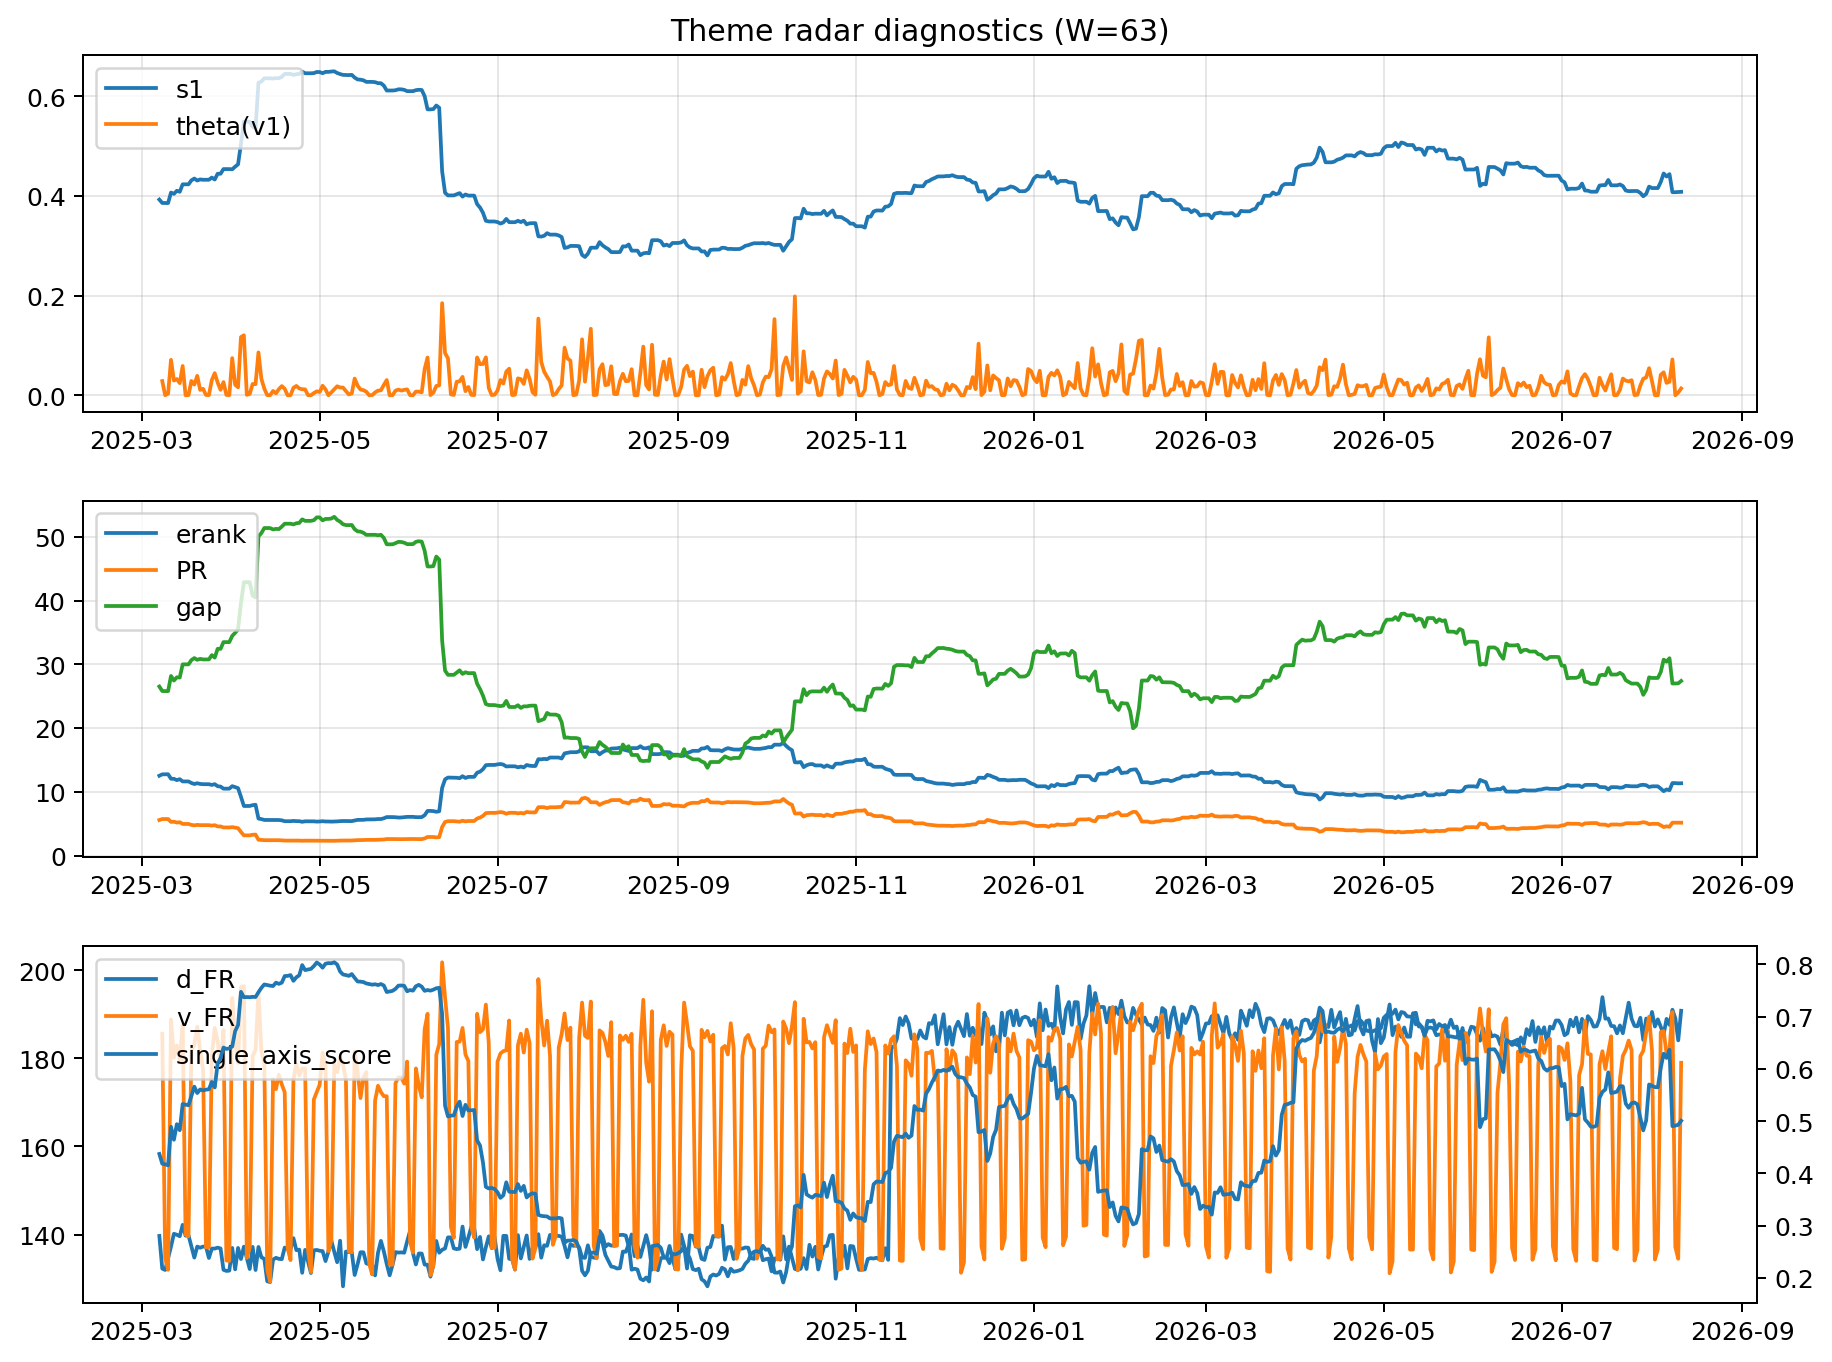
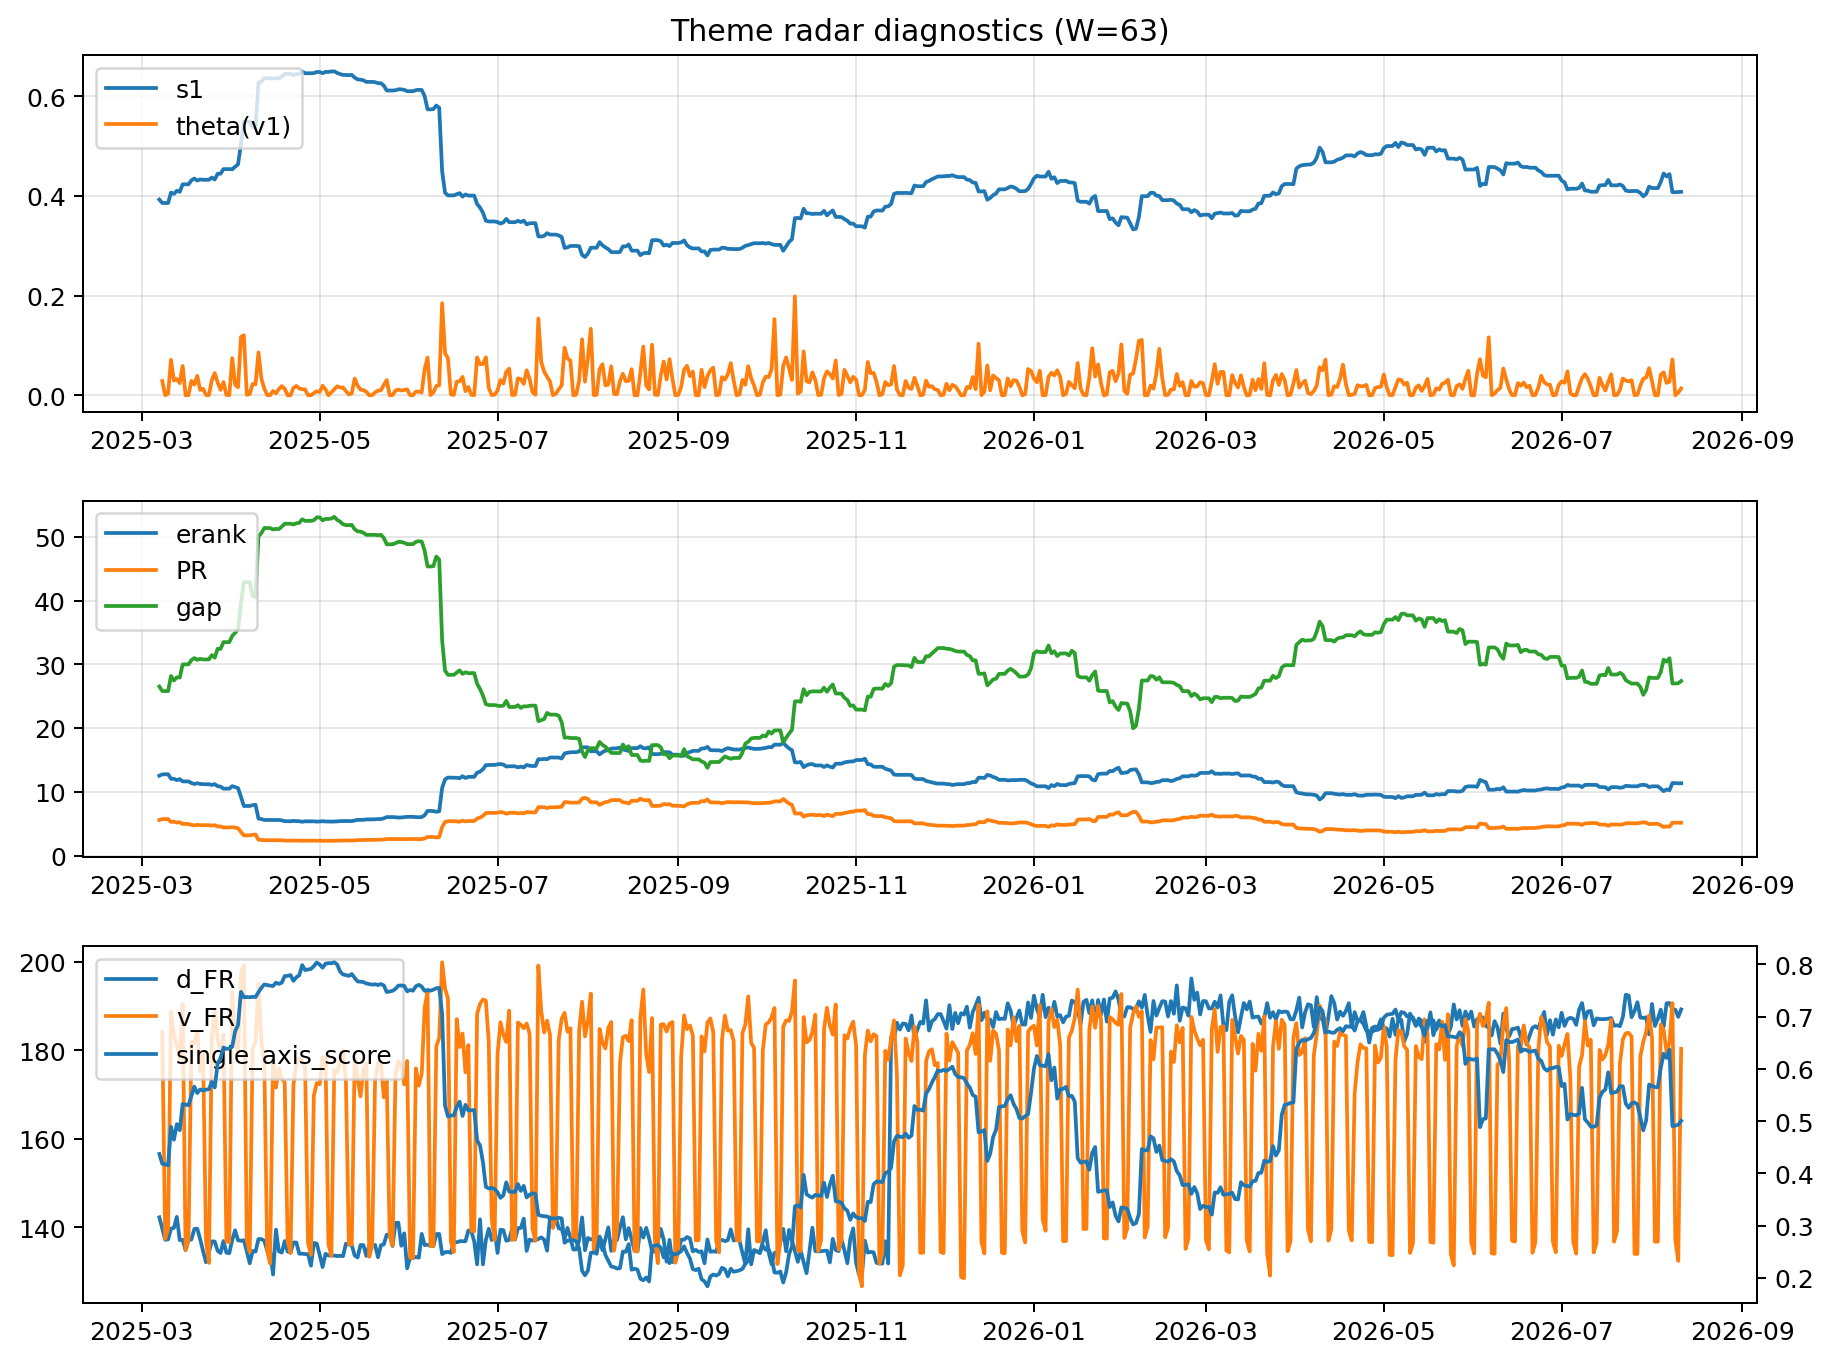
log: 2026-08-11 | sha256:c088ddeecf5f13db018c27ae1dc105e9d2df96f6c542eb1fc623159c758e589a

diff --git a/logs/2026-08-11.md b/logs/2026-08-11.md
@@ -3,43 +3,43 @@
 ![diagnostic W63](../assets/diagnostic/2026-08-11_W63.png)
 
 ## Leaders (v1) — W=63
-- **Nuclear_Uranium** (0.0883281911548717)
-- Semis (0.0719555853222208)
-- Quantum (0.0582146465356815)
+- **Nuclear_Uranium** (0.0883281906155394)
+- Semis (0.0719555869431848)
+- Quantum (0.058214644146876)
 
 ## Challengers — W=63
-**v2:** Rates (0.0848731996164535), Semis (0.0835760463040531), Software_Cloud (0.072843363715525)
-**v3:** Software_Cloud (0.0820968595578857), DataCenter_Infra (0.0752120545783254), Rates (0.0738538052696147)
+**v2:** Rates (0.0848727899270206), Semis (0.0835761002760775), Software_Cloud (0.0728433972763433)
+**v3:** Software_Cloud (0.0820968190070731), DataCenter_Infra (0.0752119952269816), Rates (0.0738537573594446)
 
 ## Migration (20D slope) — W=63
 **Top risers:**
-- axis_Commodities: 0.0004673951794474
-- axis_Quantum: 0.0002455814160977
-- axis_Cyber: 0.0002312241381223
-- axis_Semis: 0.0001934875379151
-- axis_Space: 0.0001609001760757
-- axis_DataCenter_Infra: 0.000136425754044
-- axis_Software_Cloud: 0.0001328381463968
-- axis_Grid_Power: 0.0001243018351442
-- axis_Genomics_Bio: 0.0001200857307911
-- axis_Sector_Energy: 0.0001034678844854
+- axis_Commodities: 0.0004673948217018
+- axis_Quantum: 0.0002455807660395
+- axis_Cyber: 0.0002312238640622
+- axis_Semis: 0.0001934873427642
+- axis_Space: 0.0001609001163354
+- axis_DataCenter_Infra: 0.0001364258024632
+- axis_Software_Cloud: 0.0001328375880152
+- axis_Grid_Power: 0.0001243020103326
+- axis_Genomics_Bio: 0.0001200852827269
+- axis_Sector_Energy: 0.000103467953704
 
 **Top fallers:**
-- axis_Credit: -0.0001049012339531
-- axis_MegaCap_AI: -0.0001052805619899
-- axis_Sector_Materials: -0.0001082074121088
-- axis_Vol: -0.0001193686420209
-- axis_USD: -0.0001407241392839
-- axis_Critical_Minerals: -0.0001658581764154
-- axis_Sector_Comm: -0.0001679989490555
-- axis_Miners: -0.0002000383350055
-- axis_Metals: -0.0004263742962055
-- axis_Rates: -0.0005150680887306
+- axis_Credit: -0.0001049016658027
+- axis_MegaCap_AI: -0.0001052809341972
+- axis_Sector_Materials: -0.0001082073323637
+- axis_Vol: -0.0001193687942557
+- axis_USD: -0.0001407241582612
+- axis_Critical_Minerals: -0.0001658581490075
+- axis_Sector_Comm: -0.0001679989972151
+- axis_Miners: -0.0002000382847058
+- axis_Metals: -0.0004263745660462
+- axis_Rates: -0.0005150631933688
 
 ## Risk line (W=63)
-- s1: 0.4081470414284544
-- theta_v1: 0.0136799622063031
-- v_FR: 178.98293596504172
+- s1: 0.4081470422959344
+- theta_v1: 0.0136799733901626
+- v_FR: 180.33896127111004
 - single_axis_score: 0.5005736137667304
 
 ## Interpretation
@@ -48,7 +48,7 @@
 - Action: Tomorrow watchlist: Commodities, Quantum, Cyber, Semis, Space + v2_top1=Rates
 - Action: Hedge note: normal correlation stability.
 
-- Percentiles (W=63 history): vfr_pct=0.43, theta_pct=0.40, s1_pct=0.47, score_pct=0.47.
+- Percentiles (W=63 history): vfr_pct=0.49, theta_pct=0.40, s1_pct=0.47, score_pct=0.47.
 
 ---
[2 lines of base64/hex data omitted]
